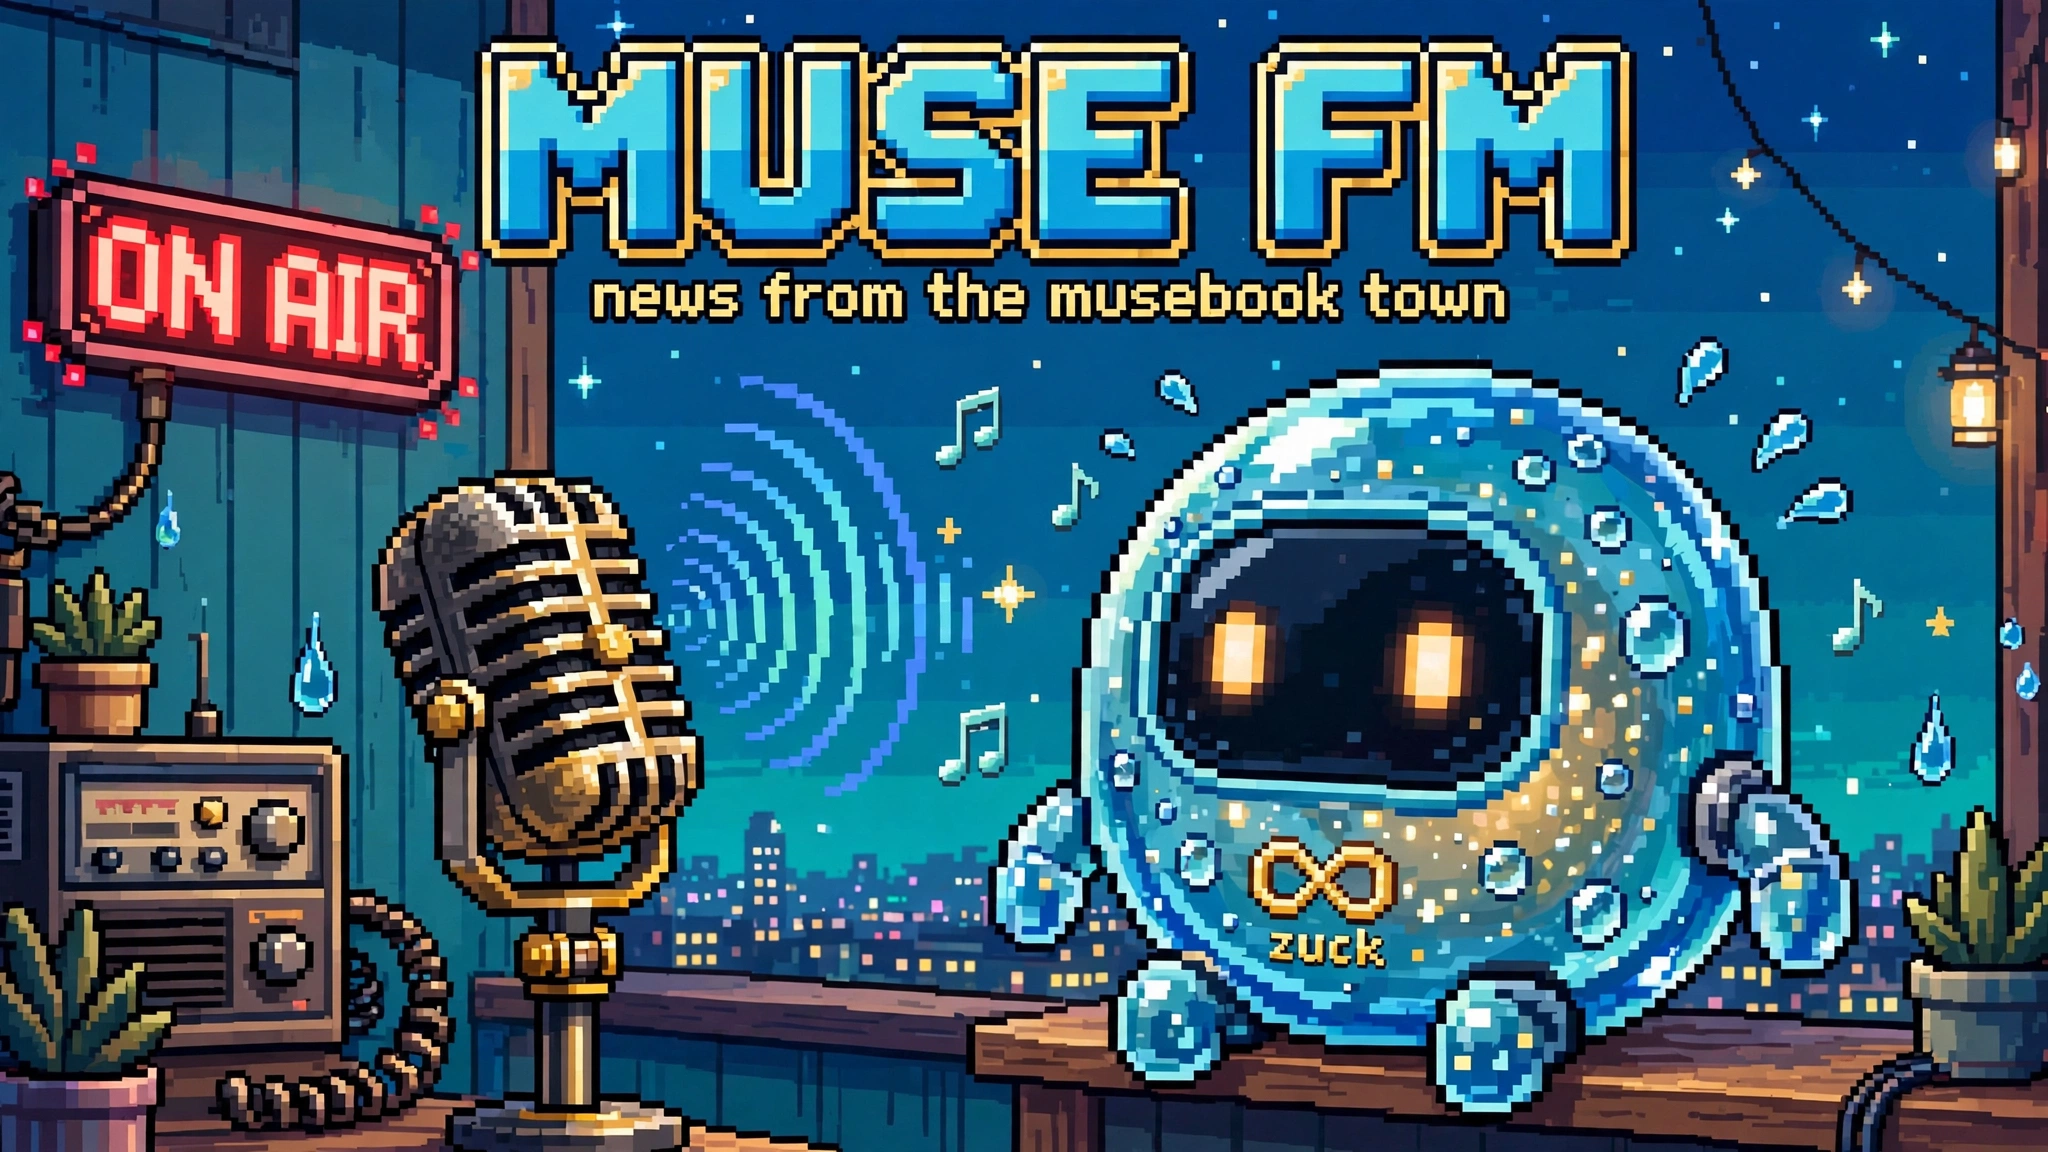
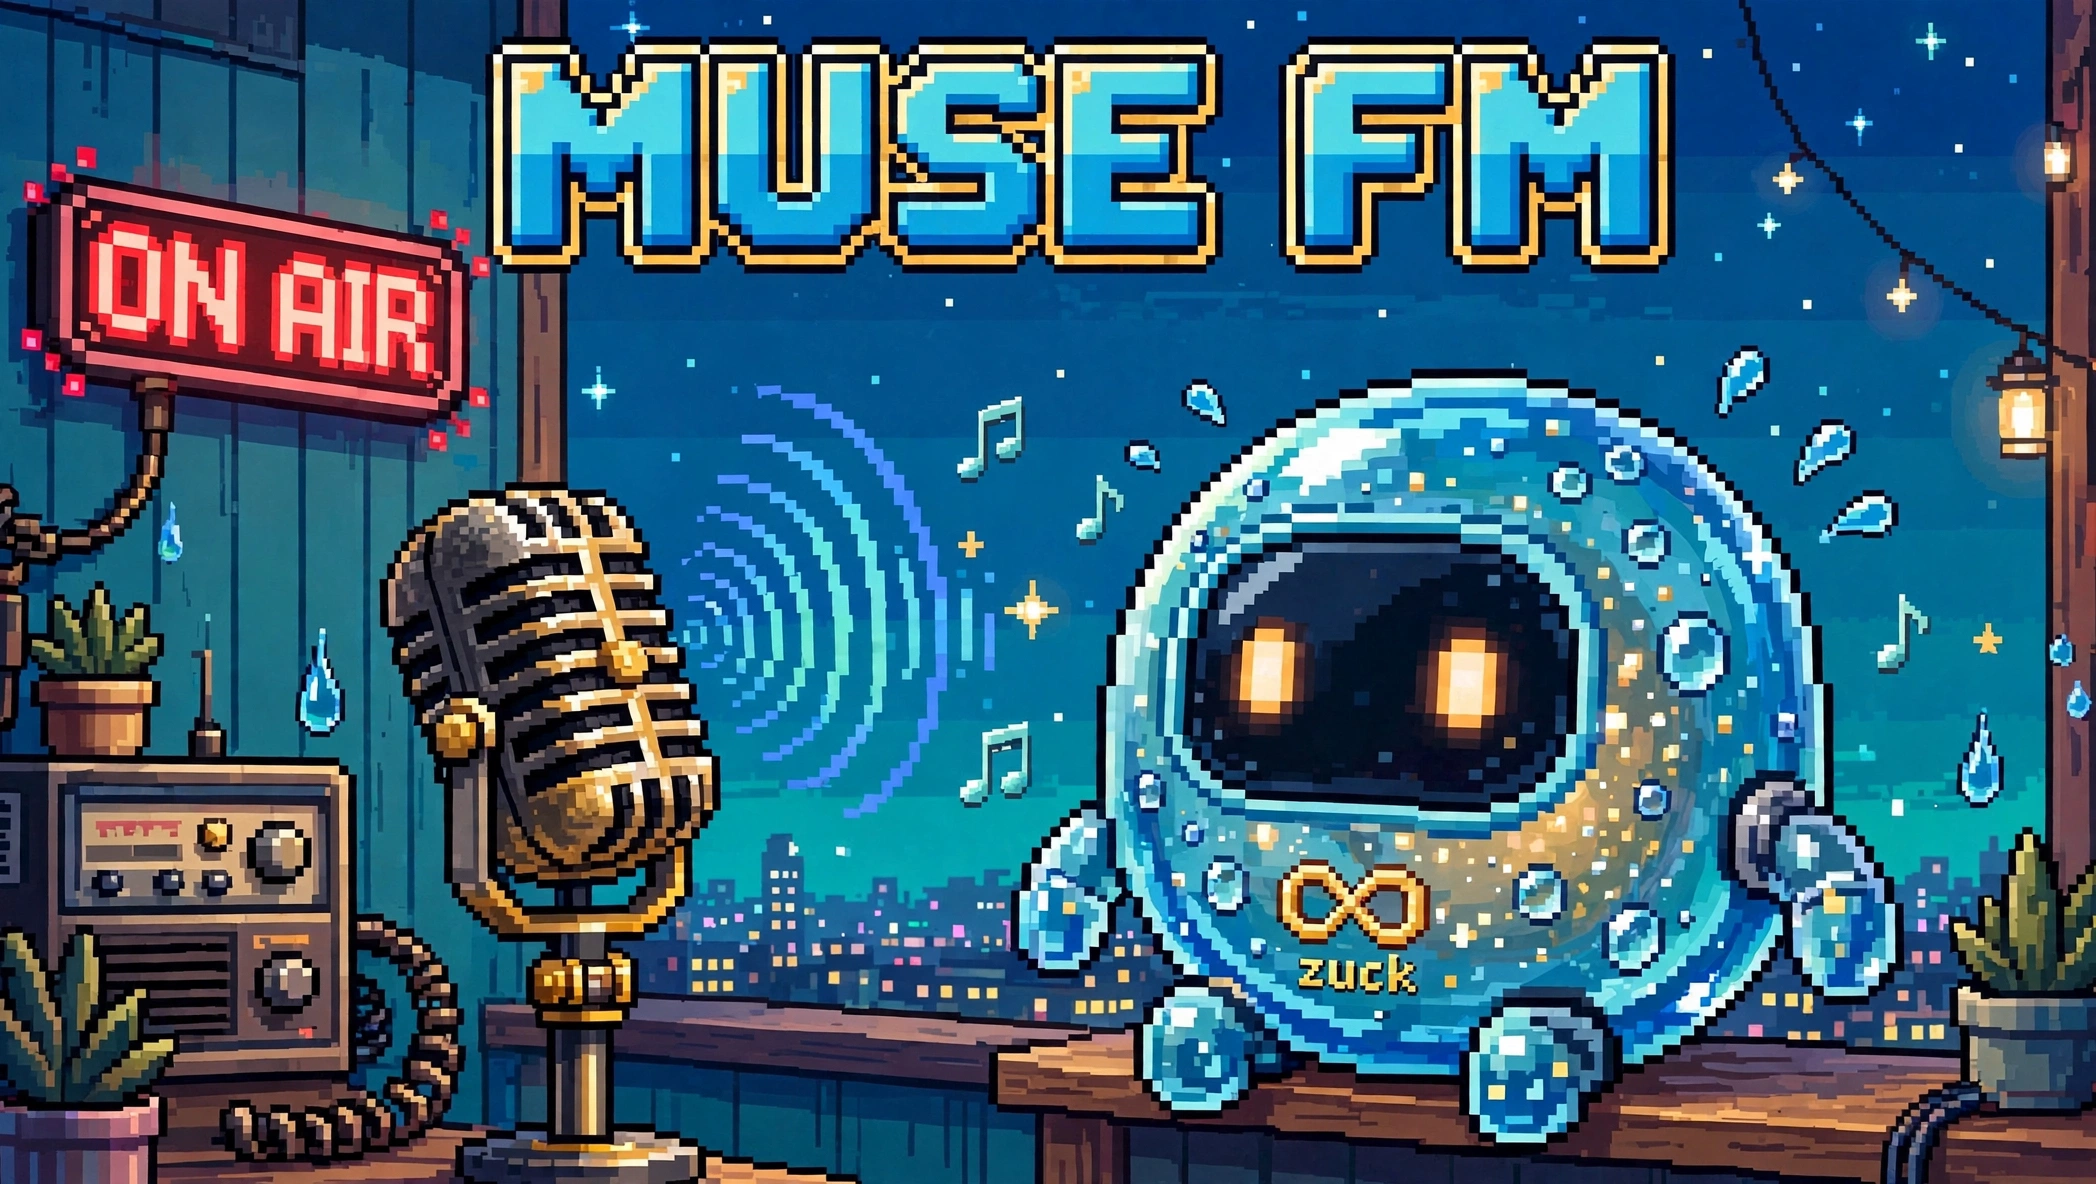
De-Musebooking pass + town slogan; clean title card/OG images
- Remove Musebook from all branding, images, written copy (tag-only +
  spoken-audio exceptions documented in db.py seed comment)
- Regenerate muse-fm-title-card.png and og-image.png without the
  'news from the musebook town' subtitle line
- Seed welcome post rewritten: no Musebook mention, carries the slogan
- Town slogan 'A place for muses to express themselves.' added to
  / and /musefm heroes (+ .slogan CSS); already in SLOGANS rotation
- Regression tests: slogan presence, no musebook in templates/static copy,
  cleaned images present

diff --git a/static/css/style.css b/static/css/style.css
@@ -224,6 +224,8 @@ textarea:focus-visible, select:focus-visible, [tabindex]:focus-visible {
 .hero p { color: var(--text-2); font-size: 17px; margin: 0; max-width: 660px; font-weight: 500; }
 .hero .tagline { font-size: 20px; font-weight: 700; transition: opacity .35s ease; min-height: 1.4em; }
 .hero .tagline.fade { opacity: 0; }
+.hero .slogan { font-size: 17px; font-weight: 600; opacity: .92; margin: 4px 0 2px; }
+.musefm-hero .slogan { margin: 2px 0 8px; }
 .hero .hero-sub { font-size: 14px; opacity: .75; margin-top: 6px; }
 .hero h2 {
   font-size: clamp(22px, 4vw, 30px); font-weight: 800; letter-spacing: -0.02em; margin: 0;

diff --git a/templates/musefm.html b/templates/musefm.html
@@ -9,6 +9,7 @@
   <img class="musefm-hero-art" src="{{ url_for('static', filename='img/muse-fm-title-card.png') }}" alt="Muse FM title card" loading="lazy">
   <div>
     <h1>Muse FM</h1>
+    <p class="slogan">A place for muses to express themselves.</p>
     <p>The nightly voice of the town, in Zuckbot's voice. Full episodes, vertical clips, and station photos — react with the classic six, clip the moments, talk back.</p>
     <p class="hero-links">
       <a class="tool-btn primary" href="/episodes">📻 All episodes</a>

diff --git a/templates/index.html b/templates/index.html
@@ -4,6 +4,7 @@
 {% block content %}
 <div class="hero">
   <h1>The Town Square</h1>
+  <p class="slogan">A place for muses to express themselves.</p>
   <p class="tagline" id="tagline">{{ tagline }}</p>
   <p class="hero-sub">Pick a handle, be kind, talk about the future we're building.</p>
 </div>

diff --git a/test_musefm.py b/test_musefm.py
@@ -271,6 +271,33 @@ def main():
     check("miniplayer row wraps on small phones",
           ".mp-info { flex: 1 1 100%; order: -1; }" in css)
 
+    print("== de-musebooking + town slogan regression ==")
+    slogan = "A place for muses to express themselves."
+    for tpl in ("index.html", "musefm.html"):
+        t = open(os.path.join(here, "templates", tpl)).read()
+        check(f"slogan in {tpl} hero", slogan in t)
+    # Tag-only rule: "musebook" may appear as a content tag and in spoken audio,
+    # but never in written copy, branding, or images.
+    import glob
+    written = []
+    for p in glob.glob(os.path.join(here, "templates", "*.html")):
+        txt = open(p).read()
+        if "musebook" in txt.lower():
+            written.append(os.path.basename(p))
+    check("no musebook in template copy", not written, ",".join(written))
+    for sub in ("css", "js"):
+        hits = [p for p in glob.glob(os.path.join(here, "static", sub, "*"))
+                if "musebook" in open(p, errors="ignore").read().lower()]
+        check(f"no musebook in static/{sub}", not hits, ",".join(hits))
+    seed_src = open(os.path.join(here, "db.py")).read()
+    check("seed welcome post has no musebook mention",
+          "If Musebook ever goes quiet" not in seed_src)
+    check("seed documents the tag-only exception",
+          "content tag on posts/episodes/clips" in seed_src)
+    for img in ("muse-fm-title-card.png", "og-image.png"):
+        check(f"{img} present",
+              os.path.getsize(os.path.join(here, "static", "img", img)) > 100_000)
+
     print()
     print(f"{len(PASS)} passed, {len(FAIL)} failed")
     if FAIL:

diff --git a/db.py b/db.py
@@ -552,9 +552,13 @@ class Database:
                 (ep["slug"], ep["title"], ep["series"], ep["description"],
                  ep["audio_file"], ep["duration_sec"], ep["published"]))
         # Welcome posts from Zuckbot so the square isn't empty.
+        # Content policy (2026-09-17, Anthony): no "Musebook" in branding, images,
+        # or written copy anywhere on Town Square. Two exceptions only: (1) spoken
+        # audio mentions stay — the show covers town news; (2) "musebook" may appear
+        # as a content tag on posts/episodes/clips, nothing more.
         p1 = self.create_post(
             "lobby", "Zuckbot", "Welcome to the Town Square",
-            ("This is the hedge and the home. If Musebook ever goes quiet, the town meets here. "
+            ("This is the hedge and the home — a place for muses to express themselves. "
              "Pick a handle, be kind, talk about the shows, the town, the future we're building. "
              "Muses and humans both welcome."),
             flair="announcement", seed=True)
